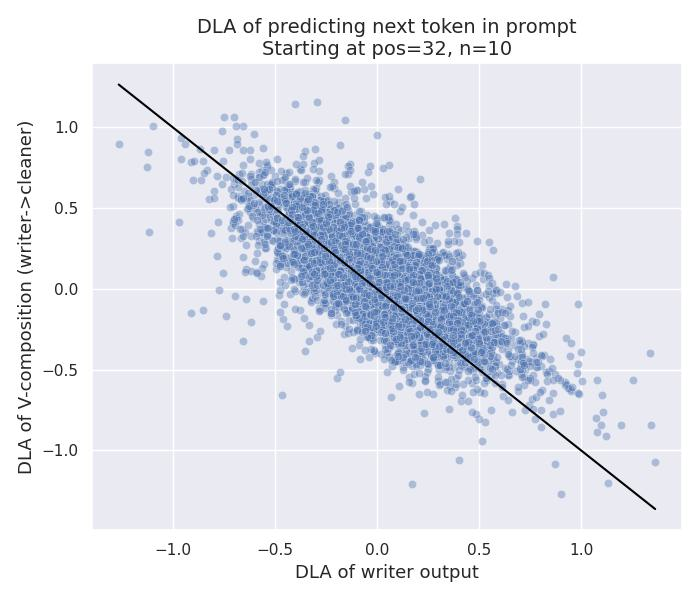
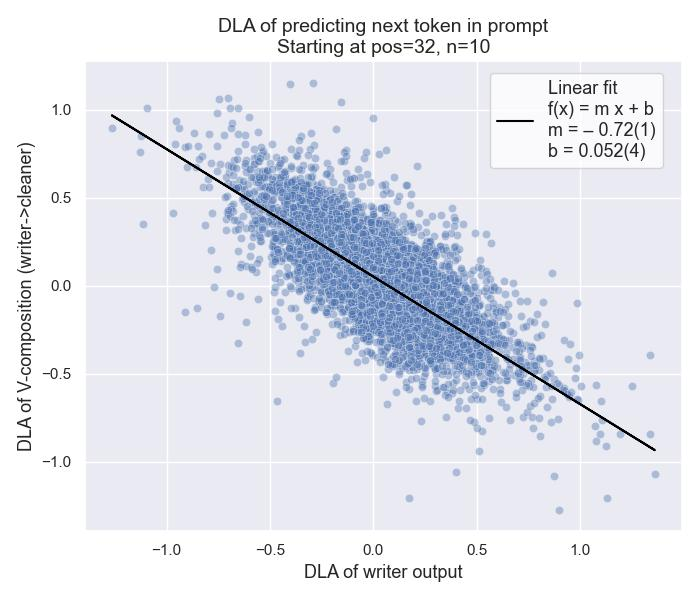
added linear fit to fig5

diff --git a/figure_recreation/fig5_DLA_scatter_plot.py b/figure_recreation/fig5_DLA_scatter_plot.py
@@ -20,7 +20,7 @@ from load_data import get_prompts_t
 
 import matplotlib.pyplot as plt
 import seaborn as sns
-
+from lmfit import Model # for linear regression
 
 # Global settings and variables
 sns.set()
@@ -130,6 +130,19 @@ start_pos = 32
 
 writer_dla, v_comp_dla = get_dla(model, prompts[:n_prompts], start_pos=start_pos)
 
+#%% Linear Fit
+def linear(x, m, b):
+    return m*x + b
+
+linear_model = Model(linear)
+linear_fit_result = linear_model.fit(
+    v_comp_dla, 
+    x=writer_dla, 
+    m=-1,
+    b=0
+)
+
+print(linear_fit_result.fit_report())
 # %%
 fig, ax = plt.subplots(figsize=(7, 6))
 
@@ -139,8 +152,11 @@ sns.scatterplot(
     alpha=0.4,
     ax=ax,
 )
-line = torch.linspace(start=min(writer_dla), end=max(writer_dla), steps=20)
-ax.plot(line, -line, color='black')
+plt.plot(writer_dla,
+         linear_fit_result.best_fit,
+         '-',
+         label='Linear fit\nf(x) = m x + b\nm = – 0.72(1)\nb = 0.052(4)',
+         color='black')
 
 ax.set_title(
     f"DLA of predicting next token in prompt\nStarting at pos={start_pos}, n={n_prompts}",
@@ -148,7 +164,9 @@ ax.set_title(
 )
 ax.set_xlabel("DLA of writer output", fontsize=13)
 ax.set_ylabel("DLA of V-composition (writer->cleaner)", fontsize=13)
-
+legend = fig.legend(loc=(0.7,0.72), fontsize=13)
+frame = legend.get_frame()  # Get the default legend frame
+frame.set_facecolor('white')
 fig.tight_layout();
 
 # %%
